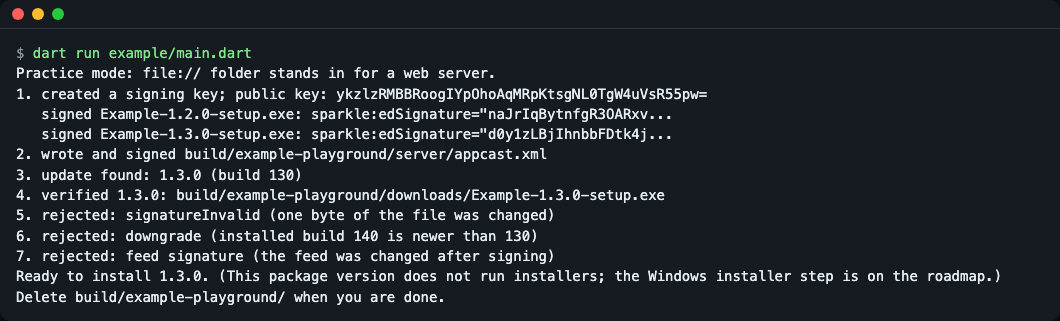
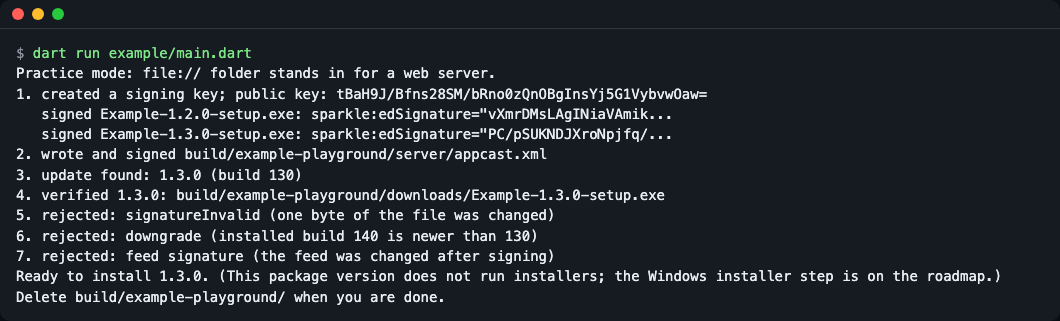
fix(ci): pin LF line endings for signed test vectors
Windows runners check out CRLF by default, which broke the byte-exact signature tests. Add .gitattributes, a CR guard test and bump the version to 0.1.1.

Changed region(s): [[0.3113, 0.2492, 0.6538, 0.4361]]

diff --git a/test/sparkle_compat_test.dart b/test/sparkle_compat_test.dart
@@ -53,6 +53,16 @@ void main() {
     final message = Uint8List.fromList(List.generate(1000000, (i) => i % 251));
     final line = vector['message_sign_update_output'] as String;
 
+    // 벡터는 바이트 단위로 비교하므로 체크아웃이 줄바꿈을 CRLF 로 바꾸면 안 된다
+    // (Windows 러너의 core.autocrlf=true). .gitattributes 가 이를 막는다.
+    test('the feed vectors were checked out without CRLF', () {
+      for (final name in ['feed-body.xml', 'signed-feed.xml']) {
+        final bytes = File('test/vectors/$name').readAsBytesSync();
+        expect(bytes.contains(13), isFalse,
+            reason: 'test/vectors/$name has CR bytes; check .gitattributes');
+      }
+    });
+
     test('the vector file says Sparkle accepted both signatures', () {
       expect(vector['sparkle_version'], '2.10.1');
       expect(vector['message_verify_rc'], 0);

diff --git a/lib/src/cli/cli.dart b/lib/src/cli/cli.dart
@@ -21,7 +21,7 @@ import 'i18n.dart';
 import 'io_util.dart';
 
 /// Version printed by `appcast --version`. Keep in sync with pubspec.yaml.
-const String packageVersion = '0.1.0';
+const String packageVersion = '0.1.1';
 
 /// Exit codes.
 const int exitOk = 0;

diff --git a/README.ko.md b/README.ko.md
@@ -4,7 +4,7 @@
 
 ## 소개
 
-순수 Dart 로 Sparkle 호환 appcast 읽기, Ed25519 서명, 업데이트 검증을 해 주는 패키지이고, Linux·Windows·macOS 어디서나 릴리스에 서명하고 피드를 편집하는 `appcast` 명령줄 도구도 함께 있습니다. [Sparkle](https://sparkle-project.org/) 과 같은 피드 형식·같은 키를 쓰므로, 이미 Sparkle 로 macOS 앱을 배포하는 Flutter 데스크톱 앱이 같은 피드로 Windows 업데이트도 확인하고 검증할 수 있습니다. 0.1.0 은 업데이트를 확인하고, 고르고, 검증하는 데까지입니다. 설치는 아직 하지 않습니다([로드맵](#로드맵)과 [알려진 한계](#알려진-한계) 참고).
+순수 Dart 로 Sparkle 호환 appcast 읽기, Ed25519 서명, 업데이트 검증을 해 주는 패키지이고, Linux·Windows·macOS 어디서나 릴리스에 서명하고 피드를 편집하는 `appcast` 명령줄 도구도 함께 있습니다. [Sparkle](https://sparkle-project.org/) 과 같은 피드 형식·같은 키를 쓰므로, 이미 Sparkle 로 macOS 앱을 배포하는 Flutter 데스크톱 앱이 같은 피드로 Windows 업데이트도 확인하고 검증할 수 있습니다. 0.1.1 은 업데이트를 확인하고, 고르고, 검증하는 데까지입니다. 설치는 아직 하지 않습니다([로드맵](#로드맵)과 [알려진 한계](#알려진-한계) 참고).
 
 ![오프라인 연습 실행: 릴리스 두 개에 서명하고, 업데이트를 찾고, 정상 파일은 받아들이고 나쁜 파일 셋은 거절한다](docs/images/01-practice-run.png)
 
@@ -21,7 +21,7 @@ Sparkle 의 `sign_update`·`generate_appcast` 도구는 macOS 바이너리라서
 | [auto_updater](https://pub.dev/packages/auto_updater) 1.0.0 | Sparkle appcast (macOS 는 Sparkle, Windows 는 WinSparkle 을 감쌈) | 예 | `sign_update` 가 macOS 전용 | 아니요, 네이티브 라이브러리가 함 |
 | [desktop_updater](https://pub.dev/packages/desktop_updater) 3.2.11 | 자체 JSON 매니페스트 | 아니요 | 자체 CLI | 자체 체인 |
 | [upgrader](https://pub.dev/packages/upgrader) 13.8.0 | 스토어 안내용으로 appcast 를 읽음 | 해당 없음 | 해당 없음 | 아니요, `edSignature` 필드를 읽기만 함 |
-| **appcast_updater** 0.1.0 | Sparkle appcast | 예(확인함, [호환성](#호환성) 참고) | 예, `appcast` CLI | 예, `Updater` / `UpdateVerifier` |
+| **appcast_updater** 0.1.1 | Sparkle appcast | 예(확인함, [호환성](#호환성) 참고) | 예, `appcast` CLI | 예, `Updater` / `UpdateVerifier` |
 
 잘 맞는 경우: Sparkle 로 macOS 앱을 배포하고(또는 배포할 계획이고) Windows 에도 같은 피드·같은 키를 쓰고 싶을 때, Linux·Windows 러너에서 릴리스에 서명하고 싶을 때, 업데이트 확인을 읽고 테스트할 수 있는 순수 Dart 코드로 두고 싶을 때.
 
@@ -52,7 +52,7 @@ appcast --version
 ```
 
 ```text
-appcast 0.1.0
+appcast 0.1.1
 ```
 
 셸이 `appcast` 명령을 찾지 못한다고 하면 pub 캐시의 `bin` 폴더가 아직 `PATH` 에 없는 것입니다(`activate` 가 `Pub installs executables into ..., which is not on your path` 라고 경고합니다). `$HOME/.pub-cache/bin` 을 `PATH` 에 추가하고(Windows: `%LOCALAPPDATA%\Pub\Cache\bin`) 터미널을 새로 열거나, `appcast` 대신 `dart pub global run appcast_updater:appcast` 로 실행하세요.
@@ -334,7 +334,7 @@ flowchart LR
 
 ## 로드맵
 
-0.1.0 에는 없으니 아직 기대지 마세요.
+0.1.1 에는 없으니 아직 기대지 마세요.
 
 - **Windows 설치·재실행**(Inno Setup·NSIS·MSI 조용한 설치 인자, 앱 종료 대기, 분리 실행, 결과 확인)과 옛 96바이트 개인키로 서명하기(지금은 종료 코드 3).
 - **macOS Sparkle 2 안내와 릴리스 워크플로**(`SUFeedURL`, `SUPublicEDKey`, `SURequireSignedFeed`, Linux 러너 릴리스 작업).
@@ -344,9 +344,8 @@ flowchart LR
 ## 알려진 한계
 
 - 서명과 검증은 파일 전체를 메모리에 올립니다(200 MB 설치 파일은 검사하는 동안 약 200 MB 메모리가 필요합니다). 크기를 먼저 비교하므로 길이가 다른 파일은 읽지 않습니다. 스트리밍은 이후 버전 계획입니다.
-- 설치와 재실행은 0.1.0 범위 밖입니다. 설치 프로그램은 앱이 실행합니다.
+- 설치와 재실행은 0.1.1 범위 밖입니다. 설치 프로그램은 앱이 실행합니다.
 - 실제 `https://` 내려받기는 자동 테스트로 확인하지 않았습니다(테스트는 `file://` 과 로컬 `127.0.0.1` 서버를 씁니다).
-- `https://` 피드의 `file://` enclosure 를 거절하는 가드에는 아직 회귀 테스트가 없습니다.
 - 스크린샷은 명령을 먼저, 출력을 나중에 보여 주며, `sign` 과 `--lang ko --help` 출력은 텍스트로만 있습니다.
 - 이 패키지는 코드 서명이나 공증을 하지 않습니다. 릴리스 파이프라인에서 각 플랫폼 도구로 하세요.
 

diff --git a/README.md b/README.md
@@ -4,7 +4,7 @@
 
 ## What it is
 
-Sparkle-compatible appcast parsing, Ed25519 signing and update verification in pure Dart, plus an `appcast` command line that signs releases and edits feeds on Linux, Windows and macOS. It uses the same feed format and the same keys as [Sparkle](https://sparkle-project.org/), so a Flutter desktop app that already ships on macOS with Sparkle can check and verify Windows updates from the same feed. Version 0.1.0 covers checking, choosing and verifying an update. It does not install anything yet (see [Roadmap](#roadmap) and [Known limitations](#known-limitations)).
+Sparkle-compatible appcast parsing, Ed25519 signing and update verification in pure Dart, plus an `appcast` command line that signs releases and edits feeds on Linux, Windows and macOS. It uses the same feed format and the same keys as [Sparkle](https://sparkle-project.org/), so a Flutter desktop app that already ships on macOS with Sparkle can check and verify Windows updates from the same feed. Version 0.1.1 covers checking, choosing and verifying an update. It does not install anything yet (see [Roadmap](#roadmap) and [Known limitations](#known-limitations)).
 
 ![The offline practice run: sign two releases, find an update, accept the good file, reject three bad ones](docs/images/01-practice-run.png)
 
@@ -21,7 +21,7 @@ How it compares with other Dart and Flutter options (read from each project's pa
 | [auto_updater](https://pub.dev/packages/auto_updater) 1.0.0 | Sparkle appcast (wraps Sparkle on macOS, WinSparkle on Windows) | Yes | `sign_update` is macOS only | No, done by the native library |
 | [desktop_updater](https://pub.dev/packages/desktop_updater) 3.2.11 | Its own JSON manifest | No | Its own CLI | Its own chain |
 | [upgrader](https://pub.dev/packages/upgrader) 13.8.0 | Reads an appcast for a store-listing prompt | n/a | n/a | No, it only reads the `edSignature` field |
-| **appcast_updater** 0.1.0 | Sparkle appcast | Yes (checked, see [Compatibility](#compatibility)) | Yes, `appcast` CLI | Yes, `Updater` / `UpdateVerifier` |
+| **appcast_updater** 0.1.1 | Sparkle appcast | Yes (checked, see [Compatibility](#compatibility)) | Yes, `appcast` CLI | Yes, `Updater` / `UpdateVerifier` |
 
 Good fit: you ship (or plan to ship) a macOS app with Sparkle and want the same feed and key for Windows; you want to sign releases on a Linux or Windows runner; or you want update checks to be plain Dart code you can read and test.
 
@@ -52,7 +52,7 @@ appcast --version
 ```
 
 ```text
-appcast 0.1.0
+appcast 0.1.1
 ```
 
 If the shell says it cannot find the `appcast` command, the pub cache `bin` folder is not on your `PATH` yet (`activate` warns about this: `Pub installs executables into ..., which is not on your path`). Add `$HOME/.pub-cache/bin` to `PATH` (Windows: `%LOCALAPPDATA%\Pub\Cache\bin`) and open a new terminal, or call the tool as `dart pub global run appcast_updater:appcast` instead of `appcast`.
@@ -334,7 +334,7 @@ Limits to know:
 
 ## Roadmap
 
-Not in 0.1.0, so do not rely on it yet:
+Not in 0.1.1, so do not rely on it yet:
 
 - **Windows install and relaunch** (Inno Setup, NSIS and MSI silent arguments, wait for the app to exit, detached installer, result check) and signing with legacy 96-byte private keys (they exit with code 3 today).
 - **macOS Sparkle 2 notes and a release workflow** (`SUFeedURL`, `SUPublicEDKey`, `SURequireSignedFeed`, a Linux-runner release job).
@@ -344,9 +344,8 @@ Today the package ends at "a verified file on disk"; starting the installer is u
 ## Known limitations
 
 - Signing and verifying read the whole file into memory (a 200 MB installer needs about 200 MB of memory while it is checked). The size is compared first, so a file of the wrong length is not read. Streaming is planned for a later version.
-- Installing and relaunching are not part of 0.1.0; your app starts the installer.
+- Installing and relaunching are not part of 0.1.1; your app starts the installer.
 - Real `https://` downloads are not covered by automated tests (the tests use `file://` and a local `127.0.0.1` server).
-- The guard that rejects a `file://` enclosure in an `https://` feed has no regression test yet.
 - Screenshots show commands first and outputs after; the `sign` and `--lang ko --help` outputs are given as text only.
 - The package does no code signing or notarization. Do those with the platform tools in your release pipeline.
 

diff --git a/CHANGELOG.md b/CHANGELOG.md
@@ -6,6 +6,15 @@ All notable changes to this project are documented here. The format follows
 
 ## [Unreleased]
 
+## [0.1.1] - 2026-11-12
+
+### Fixed
+
+- CI on Windows: the Sparkle test vectors were checked out with CRLF line endings
+  (Windows runners default to `core.autocrlf=true`), so the byte-for-byte signature
+  tests failed. A `.gitattributes` file now keeps LF everywhere and never converts
+  `test/vectors/` and `test/fixtures/`. No library or CLI behavior changed.
+
 ## [0.1.0] - 2026-11-12
 
 ### Added
@@ -27,5 +36,6 @@ All notable changes to this project are documented here. The format follows
 - Legacy 96-byte private keys are recognized: public key and verification work, signing exits with code 3.
 - Offline practice example (`dart run example/main.dart`).
 
-[Unreleased]: https://github.com/LeeGyeongPil/appcast-updater/compare/v0.1.0...HEAD
+[Unreleased]: https://github.com/LeeGyeongPil/appcast-updater/compare/v0.1.1...HEAD
+[0.1.1]: https://github.com/LeeGyeongPil/appcast-updater/compare/v0.1.0...v0.1.1
 [0.1.0]: https://github.com/LeeGyeongPil/appcast-updater/releases/tag/v0.1.0

diff --git a/SECURITY.md b/SECURITY.md
@@ -4,4 +4,4 @@
 
 If you find a security issue, please **do not open a public issue**. Use **Security → Report a vulnerability** in this repository to report it privately. We will reply after checking and announce the fix with a release.
 
-보안 범위: 이 패키지가 검증하는 것은 서명(Ed25519)·크기·sha256·다운그레이드이며, 피드 서명도 확인합니다. 설치 프로그램 실행은 0.1.0 범위 밖입니다. / Scope: this package verifies signatures (Ed25519), size, sha256 and downgrades, and the feed signature. Running installers is outside the scope of 0.1.0.
+보안 범위: 이 패키지가 검증하는 것은 서명(Ed25519)·크기·sha256·다운그레이드이며, 피드 서명도 확인합니다. 설치 프로그램 실행은 0.1.1 범위 밖입니다. / Scope: this package verifies signatures (Ed25519), size, sha256 and downgrades, and the feed signature. Running installers is outside the scope of 0.1.1.
